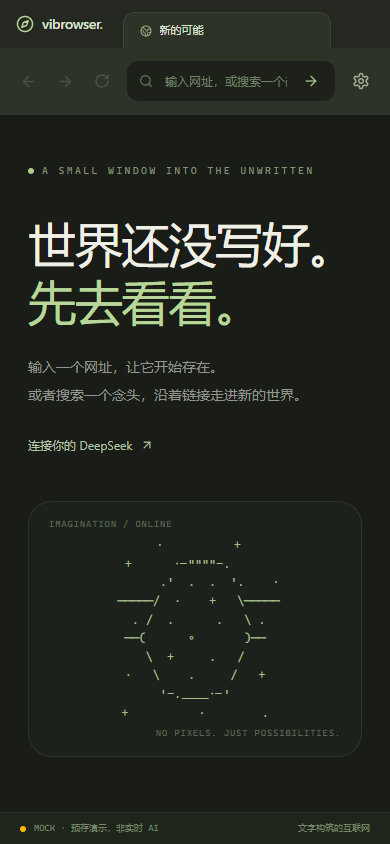
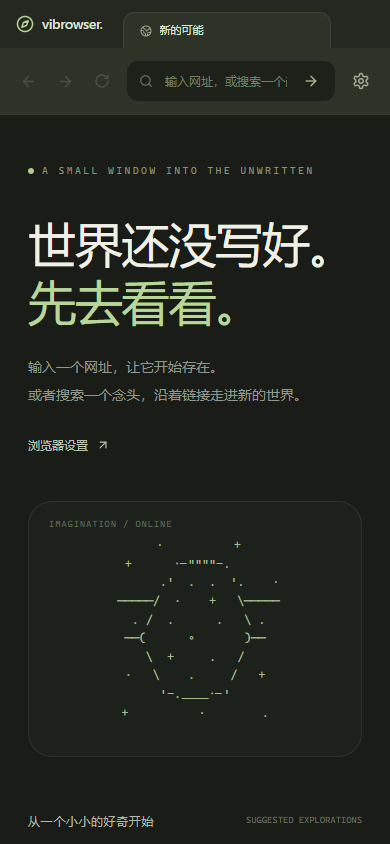
feat: remove disclaimer footers and make browsing copy immersive

diff --git a/frontend/src/pages/BrowserPage/index.tsx b/frontend/src/pages/BrowserPage/index.tsx
@@ -55,18 +55,16 @@ export default function BrowserPage() {
   }, [displayInput]);
   const title =
     content.status === "ready" ? content.page.spec?.title : "新的可能";
-  const isDemo =
-    mock || (content.status === "ready" && content.page.source === "mock");
   const isLoading =
     content.status === "loading" || content.status === "generating";
   const phase =
     content.status === "generating" ? content.job.phase : "connecting";
   const phases: Record<string, string> = {
-    queued: "等待生成",
-    generating: "正在创造这个世界",
-    validating: "正在检查页面结构",
-    saving: "正在保存页面",
-    connecting: "正在连接想象引擎",
+    queued: "等待加载",
+    generating: "正在加载页面",
+    validating: "正在整理内容",
+    saving: "即将就绪",
+    connecting: "正在连接",
   };
   const iconButton =
     "cursor-pointer rounded-lg p-2 text-[#a4ac99] transition-colors hover:bg-white/5 hover:text-white disabled:cursor-default disabled:opacity-25";
@@ -84,9 +82,6 @@ export default function BrowserPage() {
             <Globe2 size={12} className="text-[#99ac86]" />
             <span className="truncate">{title}</span>
           </div>
-          <span className="ml-auto hidden font-mono text-[9px] tracking-[.17em] text-[#77856b] sm:block">
-            SMOKE / 01
-          </span>
         </div>
         <div className="flex items-center gap-1 bg-[#2e3328] px-3 py-3 md:gap-2 md:px-5">
           <button
@@ -194,9 +189,6 @@ export default function BrowserPage() {
               <p className="mt-4 max-w-md break-all text-sm text-[#87977a]">
                 {draft}
               </p>
-              <p className="mt-8 text-xs text-[#66765a]">
-                文字、布局与链接，正在成为一个可以探索的地方。
-              </p>
             </section>
           )}
           {content.status === "ready" && content.page.spec && (
@@ -213,7 +205,7 @@ export default function BrowserPage() {
           {content.status === "error" && (
             <section className="mx-auto flex min-h-[65vh] max-w-lg flex-col items-center justify-center gap-5 p-8 text-center">
               <AlertCircle size={32} className="text-[#c6af80]" />
-              <h1 className="text-2xl">这个世界还没准备好</h1>
+              <h1 className="text-2xl">页面暂时无法打开</h1>
               <p role="alert" className="text-sm leading-7 text-[#a2ad96]">
                 {content.message}
               </p>
@@ -237,26 +229,6 @@ export default function BrowserPage() {
           )}
         </div>
       </div>
-      <footer className="flex h-8 shrink-0 items-center justify-between border-t border-white/6 bg-[#20251c] px-5 font-mono text-[9px] text-[#77876a]">
-        <span className="flex items-center gap-2">
-          <span
-            className={
-              "size-1.5 rounded-full " +
-              (isDemo ? "bg-amber-400" : "bg-[#b8d69a]")
-            }
-          />
-          {isDemo
-            ? "MOCK · 预存演示，非实时 AI"
-            : isLoading
-              ? "GENERATING"
-              : "LOCAL / DEEPSEEK"}
-        </span>
-        <span className="truncate pl-4">
-          {content.status === "ready" && content.page.kind === "search"
-            ? "虚构搜索 · 非真实互联网结果"
-            : "文字构筑的互联网"}
-        </span>
-      </footer>
       {settings && (
         <SettingsPanel mock={mock} onClose={() => setSettings(false)} />
       )}

diff --git a/frontend/src/pages/BrowserPage/components/HomePage.tsx b/frontend/src/pages/BrowserPage/components/HomePage.tsx
@@ -1,4 +1,4 @@
-import { ArrowUpRight, Globe2, Orbit, Search, Sparkles } from "lucide-react";
+import { ArrowUpRight, Globe2, Orbit, Search } from "lucide-react";
 export function HomePage({
   onNavigate,
   onSettings,
@@ -28,7 +28,7 @@ export function HomePage({
             onClick={onSettings}
             className="mt-7 flex cursor-pointer items-center gap-2 text-xs text-[#b9c4ac] hover:text-white"
           >
-            连接你的 DeepSeek <ArrowUpRight size={14} />
+            浏览器设置 <ArrowUpRight size={14} />
           </button>
         </div>
         <div
@@ -43,9 +43,6 @@ export function HomePage({
               "        ·          +       \n    +      .-\"\"\"\"-.         \n         .'  .  .  '.    ·  \n   ─────/  ·    +   \\─────  \n     . /  .      .   \\ .    \n    ──(      ◦       )──    \n       \\  +     .   /       \n    ·   \\    .     /   +    \n         '-.____.-'         \n   +          ·        .   "
             }
           </pre>
-          <span className="absolute bottom-4 right-5 font-mono text-[9px] tracking-widest text-[#5f6a57]">
-            NO PIXELS. JUST POSSIBILITIES.
-          </span>
         </div>
       </div>
       <div className="mb-4 mt-14 flex items-center justify-between">
@@ -63,21 +60,21 @@ export function HomePage({
             title: "月面咖啡馆",
             url: "moon-coffee.example",
             note: "一杯拿铁，和窗外的地球。",
-            tag: "生成网站",
+            tag: "访问网站",
           },
           {
             icon: Globe2,
             title: "未来植物档案",
             url: "future-botany.example",
             note: "记录那些尚未被发现的绿色。",
-            tag: "生成网站",
+            tag: "访问网站",
           },
           {
             icon: Search,
             title: "如果城市漂浮在云上",
             url: "漂浮在云上的城市",
             note: "沿着一个念头，寻找另一种可能。",
-            tag: "虚构搜索",
+            tag: "搜索",
           },
         ].map((x) => (
           <button
@@ -96,18 +93,12 @@ export function HomePage({
             <p className="mt-2 text-xs leading-6 text-[#838d7a]">{x.note}</p>
             <div className="mt-5 flex items-center justify-between border-t border-white/5 pt-3">
               <span className="font-mono text-[9px] text-[#64705b]">
-                {x.tag === "虚构搜索" ? "vibe://search" : x.url}
+                {x.tag === "搜索" ? "vibe://search" : x.url}
               </span>
               <span className="text-[9px] text-[#7f8e72]">{x.tag}</span>
             </div>
           </button>
         ))}
-      </div>
-      <div className="mt-auto flex flex-wrap items-center justify-between gap-4 pt-12 text-[10px] text-[#626e58]">
-        <span className="flex items-center gap-2">
-          <Sparkles size={12} /> 虚构内容，真实的探索。
-        </span>
-        <span>无图片 · 文字构筑的互联网</span>
       </div>
     </div>
   );

diff --git a/frontend/tests/e2e/browser.spec.ts b/frontend/tests/e2e/browser.spec.ts
@@ -49,9 +49,7 @@ test("home, website, link, history, refresh and fictional search", async ({
   await expect(
     page.getByRole("heading", { name: "月球旅行", exact: true }),
   ).toBeVisible();
-  await expect(
-    page.getByText("虚构搜索结果 · 内容由 AI 生成，并非真实互联网搜索"),
-  ).toBeVisible();
+  await expect(page.getByText("为你找到 3 个相关结果")).toBeVisible();
   await page.screenshot({
     path: "../docs/screenshots/search.png",
     fullPage: true,

diff --git a/frontend/src/pages/BrowserPage/components/PageRenderer.tsx b/frontend/src/pages/BrowserPage/components/PageRenderer.tsx
@@ -106,12 +106,7 @@ function Block({
         </figure>
       );
     case "footer":
-      return (
-        <footer className="mt-14 flex flex-wrap justify-between gap-4 border-t border-current/20 pt-5 text-xs opacity-55">
-          <span className="font-mono">{b.title}</span>
-          <span>{b.text}</span>
-        </footer>
-      );
+      return null;
   }
 }
 export function PageRenderer({ spec, onNavigate }: Props) {

diff --git a/README.md b/README.md
@@ -41,13 +41,14 @@ $env:VIBROWSER_PG_BIN = 'D:\Installs\PostgreSQL\16\bin'
 
 密钥通过 Windows 当前用户 DPAPI 加密，保存到本机 PostgreSQL。设置查询只返回 URL、模型、revision 与 hasKey；浏览器仅在填写时短暂持有明文，不保存到 localStorage。更换地址必须重新填写 Key。密钥不能随数据库复制到其他 Windows 用户后直接解密。
 
-Mock 的测试连接与生成均为模拟，界面明确标注；真实模式不会读取 Mock 缓存。没有有效 Key 时，真实模式给出可重试错误，不回退到假生成。
+Mock 的测试连接与生成均为模拟，连接测试结果在设置中说明；真实模式不会读取 Mock 缓存。没有有效 Key 时，真实模式给出可重试错误，不回退到假生成。
 
 ## 本版能力与限制
 
 - 单标签中文浏览器外壳、地址栏、前进/后退/刷新、设置面板、生成进度、失败重试。
 - 裸域名、路径与 HTTP(S) URL 规范化；普通文字生成虚构搜索结果。地址仅作为创作素材，不抓取网址，也不执行真实搜索。
-- PageSpec JSON 渲染导航、标题、文本、卡片、网格、按钮、页脚、搜索结果和文本插画；4 种主题。最多 12 组件、3 层嵌套，不执行生成代码或加载生成图片。
+- PageSpec JSON 渲染导航、标题、文本、卡片、网格、按钮、搜索结果和文本插画；4 种主题。最多 12 组件、3 层嵌套，不执行生成代码或加载生成图片。
+- 浏览器与生成页面取消说明性页脚；生成文案采用站点自身口吻，直接呈现品牌、栏目和正文。旧 footer 类型仅保留协议兼容，不渲染。此次缓存清理及验证见 [界面与文案调整](docs/IMMERSIVE_COPY.md)。
 - 单 worker；一次页面任务最多 2 次模型请求，每次最多 60 秒。鉴权、额度、限流错误立即失败。等待较久可刷新查看状态。
 - 短事务、缓存、并发去重、代次检查与重启恢复。重启后 running 任务变为失败，可显式重试；queued 任务继续领取。
 - 本版不含虚构文件、生图、多标签页、完整站点世界设定、真实互联网搜索、部署与账户体系。模型调用不承诺严格只计费一次。

diff --git a/docs/IMMERSIVE_COPY.md b/docs/IMMERSIVE_COPY.md
@@ -1,0 +1,27 @@
+# 界面与文案调整
+
+2026-11-03，按用户要求减少打断浏览体验的说明，优先呈现站点本身。
+
+- 删除浏览器底部状态栏、SMOKE 标记、首页的说明性页脚和“无图片”技术口号。
+- 生成页面不再渲染 footer；旧类型可解码，以兼容现有页面记录。
+- 删除旧 Prompt 中要求页脚、反复强调虚构/演示/无交易的文案；采用站点经营者、编辑或作者的口吻，以具体内容和站内信息组织页面。
+- 完整嵌套结构示例仍保留，改为八组件；搜索建议五组件。JSON 结构、链接及数量校验照常运行。
+- 更新 Mock fixtures 与已有浏览器测试中的搜索文案。
+
+## 已有内容
+
+使用 scripts/refresh-page-copy.mjs 清理本机 12 个真实生成页和 7 个演示缓存。移除旧 footer，并按已检查的原句逐项删除正文/摘要中的声明；未重新调用模型，页面 ID、任务 ID、链接和其余正文保留。
+
+修改前的数据保存在 Git 忽略的 .data/copy-cleanup-backup-*.json。脚本使用事务和旧 spec 条件检查，避免覆盖并发修改；重复运行无额外更改。该脚本是针对旧提示文案的维护工具，不是运行时的通用关键词过滤器。
+
+历史真实 Smoke 记录的 SHA-256 保留为当时证据。本次主动编辑文案后，旧哈希不再作为当前页面的预期值；重启测试应先重新取得当前验收快照。
+
+## 验证
+
+- Scala 24 项、前端 9 项测试通过；类型检查与生产构建通过。
+- 4 项 Mock 浏览器交互测试全部通过。
+- 真实接口新生成 night-notes.example 与“深夜独立书店”搜索页，均成功渲染，无 footer 或旧声明文案。
+- 浏览器复查已缓存的“作业解答大全”页面；检查当前 14 个真实页面的文本，未发现本次清理的声明标记。
+- 应用已恢复真实接口模式，用户凭据未更改。
+
+当前截图：[首页](screenshots/immersive/home.png) · [网站](screenshots/immersive/website.png) · [搜索](screenshots/immersive/search.png) · [已有页面](screenshots/immersive/cached.png)。

diff --git a/docs/ARCHITECTURE.md b/docs/ARCHITECTURE.md
@@ -4,6 +4,8 @@
 
 ## 首版实际结构（2026-11-03）
 
+界面后续调整：移除浏览器状态底栏与生成页 footer；Prompt 采用站点自身口吻，示例改为八组件、搜索建议五组件。旧 PageSpec 的 footer 类型继续可解码，但 Renderer 不输出，避免已有缓存恢复旧页脚。完整变更与本机缓存维护记录见 [IMMERSIVE_COPY.md](IMMERSIVE_COPY.md)。
+
 四个逻辑服务同进程运行：browser 管导航、内容与缓存；generation 管任务和模型调用；settings 管接口配置与 DPAPI；system 管 HTTP、事务与资源。业务入口均为独立 Message.plan，前端同名类通过 send 调用。没有仅转发的 Service。
 
 | 消息 | POST 路径 | 返回与责任 |

diff --git a/docs/LIVE_SMOKE.md b/docs/LIVE_SMOKE.md
@@ -1,5 +1,7 @@
 # 真实 DeepSeek Smoke 与故障修复
 
+本页是当时的验收快照。随后按用户要求调整了界面与缓存文案，既有页面的内容哈希因此有意变化；该变化不是缓存失效或重新生成。最新界面及维护记录见 [IMMERSIVE_COPY.md](IMMERSIVE_COPY.md)。
+
 验收时间：2026-11-03 19:39–19:45（Asia/Shanghai）。接口为用户已配置的 DeepSeek 官方 / deepseek-flash。**真实连接通过，6/6 页面任务成功；缓存与应用重启恢复通过。**
 
 本轮使用已有加密凭据，没有读取明文给前端、改写用户配置或将 Key 写入日志/提交。配置 revision 在验收前后均为 2。TokenHub 与自定义兼容接口未在本轮实测。
